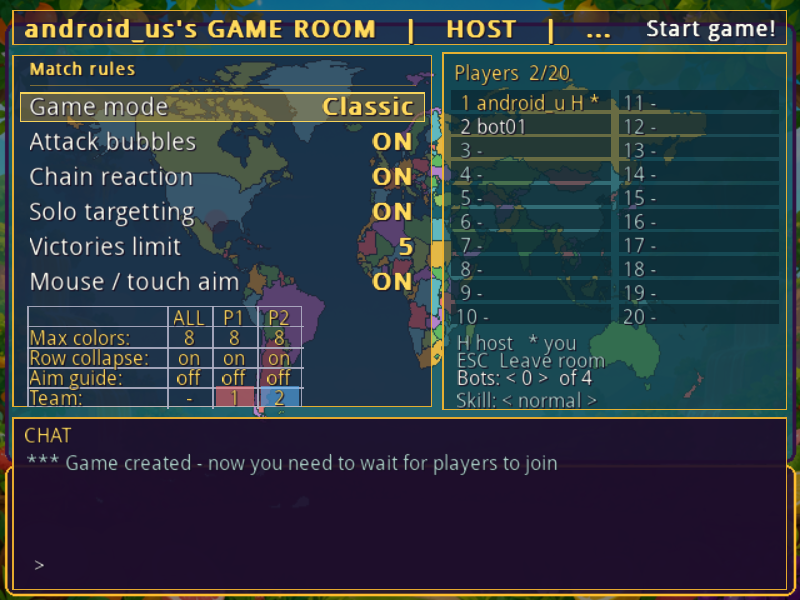
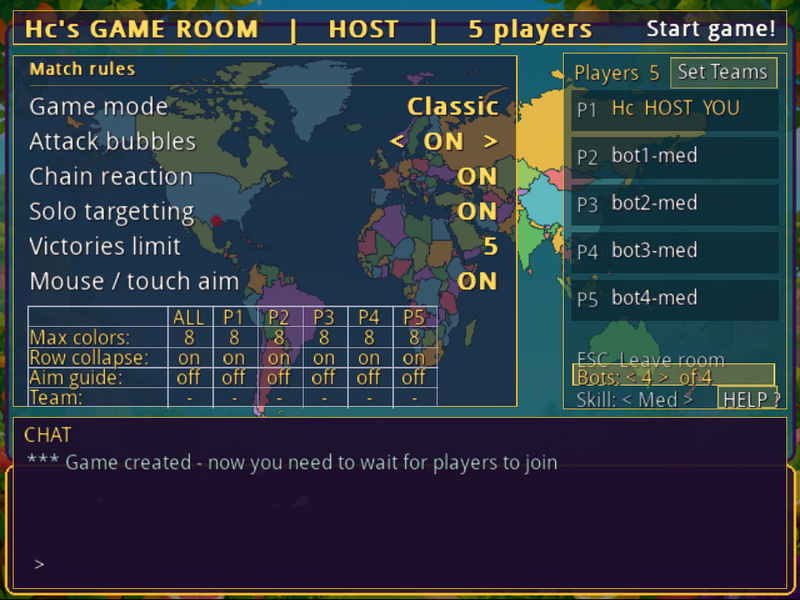
docs: refresh Play Store screenshots and listing for the teams feature
Recaptured on a real Android tablet (v2.4.80, after the Set Teams
backdrop fix in f41bcac3), via a locally hosted fb-server reached over
adb reverse, same rig docs/store-assets/README.md already describes:

- screenshot-2-game-room.png: refreshed. The previous capture predated
  teams becoming a per-player setting (db4b580c) and showed the old
  rules table with no Team row or Set Teams button.
- screenshot-5-set-teams.png: new. The full-screen Set Teams picker,
  captured mid-Auto-3 so the team colors are visible.

Also updated docs/store-assets/PLAY_LISTING.md with a drafted "What's
new" release-notes blurb covering v2.4.75-v2.4.79 (the changes since
this listing was last drafted), for whenever this release goes out on
Play.

diff --git a/docs/store-assets/README.md b/docs/store-assets/README.md
@@ -13,22 +13,39 @@
   and this is honest to how it actually looks, which is fine — Play doesn't
   require portrait screenshots, just 2–8 images between 320px and 3840px per
   side with an aspect ratio no more extreme than 2:1.
-- **`screenshot-1-follow-server.png`**, **`screenshot-2-game-room.png`**,
-  **`screenshot-4-local-2player.png`**, **`screenshot-6-net-5player.png`**
-  (800×600, 24-bit RGB) — gameplay/menu
+- **`screenshot-1-follow-server.png`**, **`screenshot-4-local-2player.png`**,
+  **`screenshot-6-net-5player.png`** (800×600, 24-bit RGB) — gameplay/menu
   captures taken on a real Android tablet with `adb screenrecord`/`screencap`,
   cropped to the game viewport (the app renders 4:3 letterboxed inside the
-  device's portrait screen, so the status and navigation bars are cropped
+  device's landscape screen, so the status and navigation bars are cropped
   away). The 5-player shot is a live network game against four headless
   `tools/net_bots.py` clients, captured after the long-nickname roster fix in
   `37e0237c` — an earlier capture of the same scene showed a phantom sixth
-  player and is not the one checked in here. The follow-server and game-room
-  shots were recaptured after the full-screen `menulist`-based menu redesign
-  (`src/menulist.h`/`.cpp`): a locally hosted `fb-server`
-  (`tools/net_bots.py --count 1` supplying the second roster slot for the
-  room shot) reached over `adb reverse tcp:1511 tcp:<port>`, same rig as the
-  promo-video steps below. Superseded the previous 640×480 WASM-canvas
-  captures of these two, which still showed the old wood-popup panels.
+  player and is not the one checked in here. The follow-server shot was
+  recaptured after the full-screen `menulist`-based menu redesign
+  (`src/menulist.h`/`.cpp`): a locally hosted `fb-server` reached over
+  `adb reverse tcp:1511 tcp:<port>`, same rig as the promo-video steps below.
+  Superseded a previous 640×480 WASM-canvas capture, which still showed the
+  old wood-popup panels.
+- **`screenshot-2-game-room.png`** (800×600, 24-bit RGB) — the game room a
+  host sees before starting a match: 5 players (host + 4 bots), the **Set
+  Teams** button in the players panel header, and the **Team** row now
+  present in the match-rules table. Recaptured 2026-09-05 on the same
+  tablet/local-server rig, after teams became a per-player setting available
+  in every mode (`db4b580c`) rather than a separate "Team Mode" — the
+  previous capture predated that and still showed the old mode-only rules
+  table with no Team row or Set Teams button.
+- **`screenshot-5-set-teams.png`** (800×600, 24-bit RGB) — new: the
+  full-screen **Set Teams** picker (per-player team assignment, plus the
+  host's Auto 2/3/4/5 round-robin buttons), captured mid-Auto-3 so the team
+  colors are visible. Same capture session as the game-room shot above. This
+  page had a real rendering bug at capture time — it never painted its own
+  backdrop before drawing its translucent panel, unlike every other
+  full-screen page (`HelpPanelRender`, etc.), so the game room it was opened
+  from showed straight through and its header text ("SET TEAMS") visibly
+  merged with the room header's ("GAME ROOM") underneath. Fixed in
+  `f41bcac3` (`TeamsPanelRender` now calls `menulist::DrawWorldMapBackdrop`
+  first, same as every sibling page) before this screenshot was taken.
 - **`screenshot-7-main-menu.png`** (640×480, 24-bit RGB, no alpha) — the
   title screen, captured straight off the canvas (`canvas.toDataURL()`) of a
   locally served WASM build (`tools/serve-wasm.py`) rather than a device

diff --git a/docs/store-assets/PLAY_LISTING.md b/docs/store-assets/PLAY_LISTING.md
@@ -65,6 +65,19 @@ Contains ads. Remove them for a year, or permanently, with an in-app
 purchase.
 ```
 
+**Release notes / "What's new"** (Play's per-release field, 500 chars max —
+this one is 369; covers `v2.4.75`-`v2.4.79`, the changes since this listing
+was last drafted):
+
+```
+Teams are now a per-player setting in every mode, not a separate mode of
+their own -- join a team (or stay free-for-all) from the new Set Teams
+screen, with one-tap Auto-balance for the host. Fixed a bug where
+auto-balancing teams in a busy room could get you disconnected. Faster
+rendering and lighter logging during multiplayer, plus highscore-screen
+alignment fixes.
+```
+
 **Category:** Games > Puzzle
 **Contact email:** (your email — this is shown publicly on the listing)
 **External marketing / website:** `https://github.com/dchau360/frozen-bubble-sdl3`
